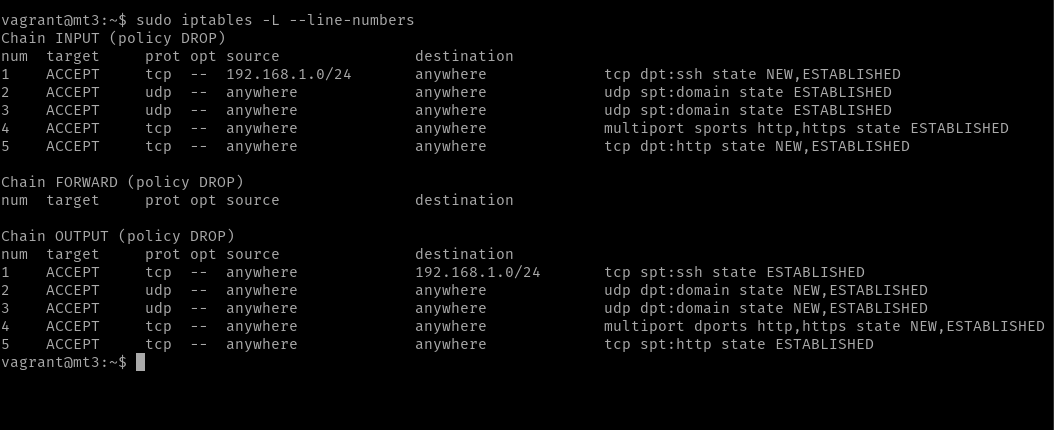
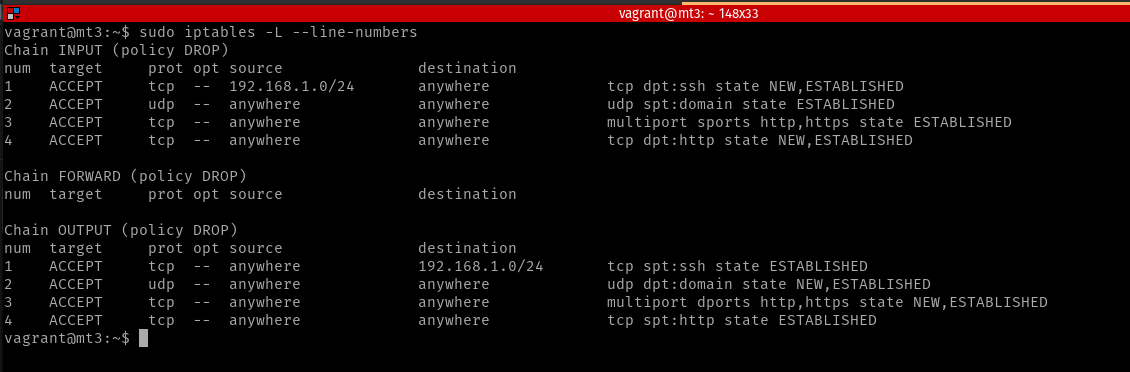
Nuevo contenido

diff --git a/docs/Resultados e implementación de mejoras/corr3.md b/docs/Resultados e implementación de mejoras/corr3.md
@@ -9,3 +9,82 @@ nav_order: 3
 
 <img src="https://raw.githubusercontent.com/crivmar/crivmar-lynis.github.io/main/assets/images/33.png"/>
 
+`Linux-PAM` (*Pluggable Authentication Modules*) es un poderoso conjunto de bibliotecas compartidas que se utilizan para autenticar dinámicamente a un usuario en aplicaciones (o servicios) en un sistema Linux. `PAM` tiene el potencial de alterar seriamente la seguridad de su sistema Linux; una configuración incorrecta puede deshabilitar el acceso a su sistema parcial o completamente. Por ejemplo, una eliminación accidental de un archivo de configuración en `/etc/pam.d/*` y/o `/etc/pam.conf` puede bloquearlo de su propio sistema. 
+El archivo de configuración principal para `PAM` es `/etc/pam.conf` y el directorio `/etc/pam.d/` contiene los archivos de configuración de PAM para cada aplicación/servicio compatible con PAM. PAM ignorará el archivo si el directorio existe.
+
+En la sugerencia nos dicen que usemos la librería `pam_cracklib` ó `pam_passwdqc`. Vamos a configurar la primera, comenzando con la instalación de `libpam-cracklib`:
+
+~~~
+sudo apt install -y libpam-cracklib
+~~~
+
+Lo siguiente es hacer una copia al fichero `/etc/pam.d/common-password`, como medida de seguridad:
+
+~~~
+sudo cp /etc/pam.d/common-password /root/
+~~~
+
+Vamos a editar el archivo con `nano`:
+
+~~~
+sudo nano /etc/pam.d/common-password
+~~~
+
+<img src="https://raw.githubusercontent.com/crivmar/crivmar-lynis.github.io/main/assets/images/34.png"/>
+
+Estás son las opciones que tenemos definidas:
+
+- `retry=3`, es el número de intentos antes de que el sistema devuelva un error.
+
+- `minlen=8`, longitud mínima de la contraseña.
+
+- `difok=3`, número de cambio de caracteres que debe tener una nueva contraseña, respecto a la antigua.
+
+
+Vamos a cambiar algunos parámetros y dejarla tal que así:
+
+~~~
+password requisite pam_cracklib.so retry=2 minlen=10 difok=3 ucredit=-2 lcredit=-2 dcredit=-2 ocredit=-2
+~~~
+
+- `ucredit=-2`, mínimo de caracteres en mayúscula.
+
+- `lcredit=-2`, mínimo de caracteres en minúscula.
+
+- `dcredit=-2`, mínimo de dígitos que debe tener la nueva contraseña.
+
+- `ocredit=-2`, mínimo de digitos que debe tener la contraseña.
+
+
+Ahora lo comprobamos cambiando la contraseña con `passwd`:
+
+<img src="https://raw.githubusercontent.com/crivmar/crivmar-lynis.github.io/main/assets/images/35.png"/>
+
+Ahora es el momento de añadir una fecha de cadudicad a las contraseñas de los usuarios, para ello vamos a usar el comando `chage` que está instalado por defecto:
+
+~~~
+## Le indicamos con -E la fecha de cuándo expira la cuenta
+
+sudo chage -E 2023-05-01 vagrant
+
+## Le indicamos -M el número máximo de días para cambiar la contraseña, desde
+## la fecha actual y con -m el mínimo de días
+
+sudo chage -M 46 -m 46 vagrant
+~~~
+
+<img src="https://raw.githubusercontent.com/crivmar/crivmar-lynis.github.io/main/assets/images/36.png"/>
+
+Vemos que el último cambio de contraseña fue el `28/11/22`, la contraseña expira el `13/01/23`, la cuenta caduca el `01/05/23` y sietes días antes de que caduque la contraseña le hará una advertencia al usuario `vagrant`. Esto es algo que habría que configurar para todos los usuarios del sistema.
+
+
+La última sugerencia de este bloque es cambiar el permiso base dentro de los archivos:
+
+- `/etc/login.defs`, aquí están definidas las variables que contolan los aspectos de la creación de usuarios y de los campos de `shadow` usados por defecto. 
+
+- `/etc/init.d/rc`, en `init.d` están definidos los scripts de inicio, concretamente el `rc` se ecnarga que los scripts correspondientes sean ejecutados en el orden correcto.
+
+<img src="https://raw.githubusercontent.com/crivmar/crivmar-lynis.github.io/main/assets/images/37.png"/>
+
+Vemos que los valores por defecto son `022` y nos recomiendan `027`, por lo cuál es modificar esas líneas para adaptarlos. `022` significa que el permiso de escritura está enmascarado para otros, así que por defecto los archivos pueden ser leídos pero no escritos o modificados por otros, sin embargo, pueden acceder a elementos con directorios. Si cambiamos a`027`, la lectura y la ejecución también estarán enmascaradas; así que los archivos y directorios recién creados se mantienen privados de los demás. Además, los elementos dentro de los directorios recién creados siempre serán inaccesibles para los demás.
+

diff --git a/docs/Resultados e implementación de mejoras/corr1.md b/docs/Resultados e implementación de mejoras/corr1.md
@@ -64,12 +64,6 @@ Como vemos hay un gran número de reglas afectadas, pero lo más indicativo es q
 
 
 ~~~
-## Cambiamos su ruta por defecto para que siempre vaya por la interfaz eth1
-
-sudo ip r del default
-sudo ip r add default via 192.168.1.141
-
-
 ## Limpiar las reglas anteriores
 
 sudo iptables -F
@@ -90,21 +84,21 @@ sudo iptables -P FORWARD DROP
 
 ## Aceptamos consultas y respuestas DNS
 
-sudo iptables -A INPUT -i eth1 -p udp --sport 53 -m state --state ESTABLISHED -j ACCEPT
+sudo iptables -A INPUT -i eth0 -p udp --sport 53 -m state --state ESTABLISHED -j ACCEPT
 
-sudo iptables -A OUTPUT -o eth1 -p udp --dport 53 -m state --state NEW,ESTABLISHED -j ACCEPT
+sudo iptables -A OUTPUT -o eth0 -p udp --dport 53 -m state --state NEW,ESTABLISHED -j ACCEPT
 
 ## Permitimos el tráfico HTTP/HTTPS
 
-sudo iptables -A INPUT -i eth1 -p tcp -m multiport --sport 80,443 -m state --state ESTABLISHED -j ACCEPT
+sudo iptables -A INPUT -i eth0 -p tcp -m multiport --sport 80,443 -m state --state ESTABLISHED -j ACCEPT
 
-sudo iptables -A OUTPUT -o eth1 -p tcp -m multiport --dport 80,443 -m state --state NEW,ESTABLISHED -j ACCEPT
+sudo iptables -A OUTPUT -o eth0 -p tcp -m multiport --dport 80,443 -m state --state NEW,ESTABLISHED -j ACCEPT
 
 ## Permitimos el acceso a nuestro servidor web
 
-sudo iptables -A INPUT -i eth1 -p tcp --dport 80 -m state --state NEW,ESTABLISHED -j ACCEPT
+sudo iptables -A INPUT -i eth0 -p tcp --dport 80 -m state --state NEW,ESTABLISHED -j ACCEPT
 
-sudo iptables -A OUTPUT -o eth1 -p tcp --sport 80 -m state --state ESTABLISHED -j ACCEPT
+sudo iptables -A OUTPUT -o eth0 -p tcp --sport 80 -m state --state ESTABLISHED -j ACCEPT
 ~~~
 
 <img src="https://raw.githubusercontent.com/crivmar/crivmar-lynis.github.io/main/assets/images/30.png"/>

diff --git a/docs/Preparación del escenario/vagrantfile_lynis.md b/docs/Preparación del escenario/vagrantfile_lynis.md
@@ -7,7 +7,7 @@ nav_order: 3
 
 ## Vagrantfile para máquina de pruebas
 
-Vamos a hacer uso de un `Vagrantfile` para levantar la máquina y así empezar con el escenario. Para que tenga comunicación con la red, voy a indicar que haga un puente con mi tarjeta de red "WiFi". Averiguamos con `ip a` el nombre y lo añadimos a este fichero. 
+Vamos a hacer uso de un `Vagrantfile` para levantar la máquina y así empezar con el escenario. Usaremos la red de mantenimiento de Vagrant en este caso:
 
 ~~~
 Vagrant.configure("2") do |config|
@@ -23,7 +23,6 @@ Vagrant.configure("2") do |config|
     mt3.vm.hostname = "mt3"
     mt3.ssh.username = "vagrant"
     mt3.ssh.password = "vagrant"
-    mt3.vm.network :public_network, bridge: "wlp4s0"
     mt3.vm.provider "virtualbox" do |v|
       v.cpus = 2
       v.memory = 2048

diff --git a/docs/Resultados e implementación de mejoras/corr4.md b/docs/Resultados e implementación de mejoras/corr4.md
@@ -1,0 +1,10 @@
+---
+layout: default
+title: Correción 4 - Puntos de montaje, almacenamiento USB y paquetes
+parent: Resultados e implementación de mejoras
+nav_order: 4
+---
+
+## Correción 4 - Sugerencias - Puntos de montaje, almacenamiento USB y paquetes
+
+<img src="https://raw.githubusercontent.com/crivmar/crivmar-lynis.github.io/main/assets/images/38.png"/>
